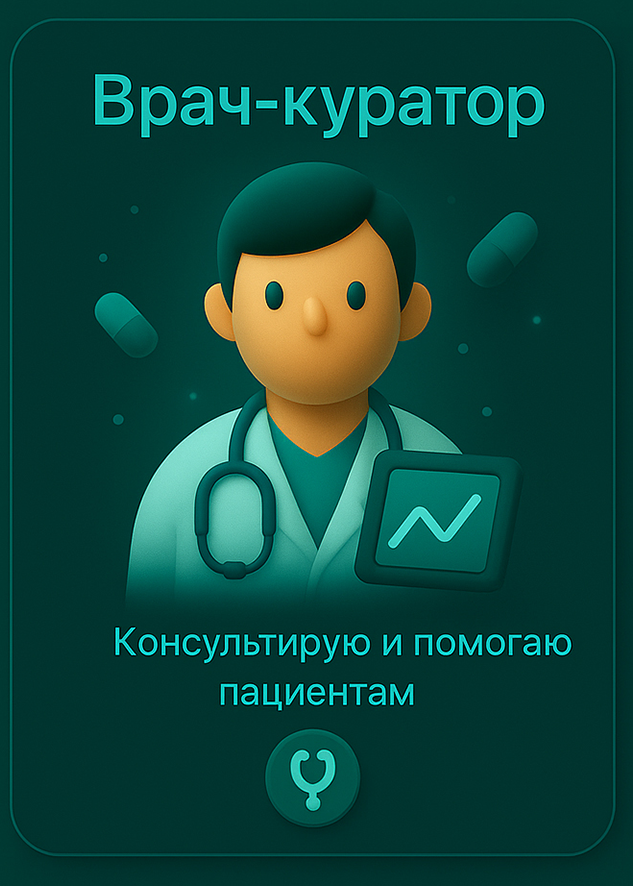
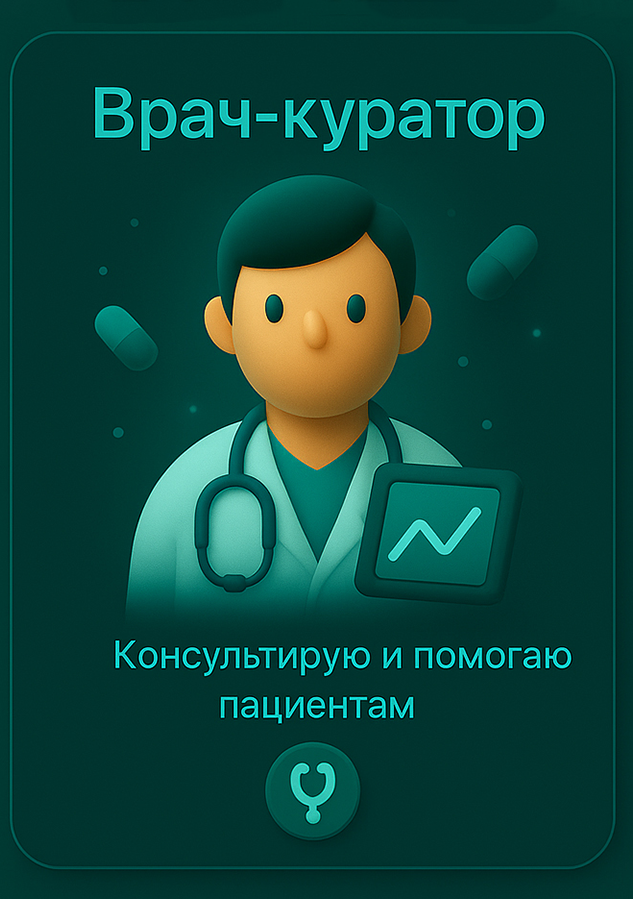
welcome3

diff --git a/webapp/welcome-rt.html b/webapp/welcome-rt.html
@@ -171,13 +171,13 @@
     inset 0 -2px 0 rgba(0,0,0,.35);
 }
 
-    @media (max-width:960px){ h1{font-size:40px} .shell{padding:24px 20px 88px} }
+    @media (max-width:960px){ h1{font-size:40px} .shell{padding:32px 40px 140px;}}
 
 /* ===== Мобильная компоновка как на твоём скрине ===== */
 
 /* чуть компактнее контейнер */
 @media (max-width: 720px){
-  .shell{ padding:18px 14px 88px; }
+  .shell{ padding:18px 14px 140px;}
 }
 
 /* 1) Заголовок и лид занимают меньше строк */
@@ -251,19 +251,146 @@
   h1{ font-size: clamp(22px, 5.5vw, 28px); line-height:1.08; margin-bottom:6px; }
   .lead{ font-size: 14.5px; line-height:1.3; margin:6px 0 4px; }
 }
+/* Центровка приветственного блока */
+.hero{
+  max-width: 880px;
+  margin: 0 auto 8px;
+  text-align: center;
+}
+
+/* Карточка для описания (лида) с градиентной рамкой */
+.lead-card{
+  position: relative;
+  margin: 12px auto 0;
+  padding: 12px 16px;
+  border-radius: 16px;
+  background: linear-gradient(180deg, rgba(255,255,255,.02), rgba(255,255,255,0));
+  border: 1px solid var(--border);
+  box-shadow:
+    inset 0 1px 0 rgba(255,255,255,.04),
+    0 10px 30px rgba(0,0,0,.26);
+}
+.lead-card::after{
+  content:"";
+  position:absolute; inset:0; border-radius:inherit; padding:1px;
+  background: linear-gradient(135deg, rgba(138,209,255,.6), rgba(60,201,157,.6) 52%, rgba(152,255,234,.6));
+  -webkit-mask: linear-gradient(#000 0 0) content-box, linear-gradient(#000 0 0);
+  -webkit-mask-composite: xor; mask-composite: exclude;
+  pointer-events:none;
+}
+
+/* Текст лида компактнее и ровнее по межстрочным */
+.lead{
+  margin: 0;
+  color: var(--text-m);
+  font-size: clamp(14px, 1.9vw, 18px);
+  line-height: 1.4;
+  text-wrap: balance;
+}
+
+/* На телефонах — чуть компактнее отступы; кнопка строго по центру */
+@media (max-width: 720px){
+  .hero{ margin-bottom: 6px; }
+  .lead-card{ padding: 10px 12px; }
+  .actions{
+    position: static;
+    margin: 16px auto 0;
+    justify-content: center;
+    width: 100%;
+  }
+  .start{ width: 88vw; } /* широкая, но не на всю */
+}
+
+/* аккуратнее в тёмной теме: более глубокая заливка и мягкая тень */
+.start{
+  width: clamp(280px, 42vw, 480px);
+  height: 62px;
+  border-radius: 18px;
+  background:
+    linear-gradient(180deg, #7ee8f4 0%, #45c7f6 48%, #22d3ee 100%);
+  color: #06121a;
+  box-shadow:
+    0 18px 36px rgba(26,84,128,.32),
+    inset 0 3px 0 rgba(255,255,255,.35),
+    inset 0 -4px 0 rgba(0,0,0,.25);
+}
+.start::before{
+  content:"";
+  position:absolute; left:10px; right:10px; top:7px; height:46%;
+  border-radius:14px;
+  background:linear-gradient(180deg, rgba(255,255,255,.38), transparent 70%);
+  pointer-events:none;
+}
+.start:hover{ filter:brightness(1.03) }
+.start:active{
+  transform: translateY(1px) scale(.99);
+  box-shadow:
+    0 12px 24px rgba(26,84,128,.28),
+    inset 0 2px 0 rgba(255,255,255,.28),
+    inset 0 -3px 0 rgba(0,0,0,.30);
+}
+
+/* Кнопка темы закреплена у низа экрана, с учётом safe-area */
+.theme-float{
+  position: fixed;                 /* было absolute */
+  right: 16px;
+  bottom: calc(16px + env(safe-area-inset-bottom));
+  z-index: 50;                     /* поверх фона, но не мешает контенту */
+}
+
+.theme-float button{
+  height: 40px;
+  padding: 0 14px;
+  font-size: 14px;
+  border: none;
+  border-radius: 999px;
+  font-weight: 900;
+  letter-spacing: .2px;
+  color:#06221f;
+  background: linear-gradient(180deg, #4ef1e8 0%, #22d3ee 35%, #10b981 100%);
+  box-shadow:
+    0 10px 20px rgba(16,185,129,.22),
+    inset 0 2px 0 rgba(255,255,255,.30),
+    inset 0 -2px 0 rgba(0,0,0,.30);
+  transition: transform .06s ease, filter .12s ease, box-shadow .06s ease;
+}
+.theme-float button::before{
+  content:''; position:absolute; left:8px; right:8px; top:5px; height:48%;
+  border-radius:inherit;
+  background:linear-gradient(180deg, rgba(255,255,255,.38), transparent 70%);
+  pointer-events:none;
+}
+.theme-float button:hover{ filter:brightness(1.03) }
+.theme-float button:active{
+  transform:translateY(1px);
+  box-shadow:
+    0 8px 16px rgba(16,185,129,.20),
+    inset 0 1px 0 rgba(255,255,255,.25),
+    inset 0 -2px 0 rgba(0,0,0,.35);
+}
+
 
 
   </style>
 </head>
 <body>
-  <section class="shell" aria-label="Добро пожаловать">
-    <!-- чип "TG WebApp готов" удалён по задаче -->
-    <h1>Добро пожаловать в Roaccutane Tracker</h1>
-    <p class="lead">Поможем аккуратно пройти курс: фиксируйте дозы, следите за прогрессом и не пропускайте приём.</p>
+ <div class="hero">
+  <h1>Добро пожаловать в Roaccutane Tracker</h1>
+
+  <div class="lead-card">
+    <p class="lead">
+      Поможем аккуратно пройти курс: фиксируйте дозы, следите за прогрессом и не пропускайте приём.
+    </p>
+  </div>
+</div>
 
     <div class="prompt">
   <strong>Вы используете приложение от лица пациента или врача?</strong><br>
   <span class="badge">Выберите роль</span>
+
+  <div class="actions">
+      <button class="start" id="startBtn">Начать</button>
+    </div>
 </div>
     <div class="cards" role="radiogroup" aria-label="Выбор роли">
   <!-- Врач -->
@@ -294,9 +421,7 @@
 
 
 
-    <div class="actions">
-      <button class="start" id="startBtn">Начать</button>
-    </div>
+    
 
     <div class="theme-float"><button id="themeToggle">🌤 Светлая тема</button></div>
   </section>
